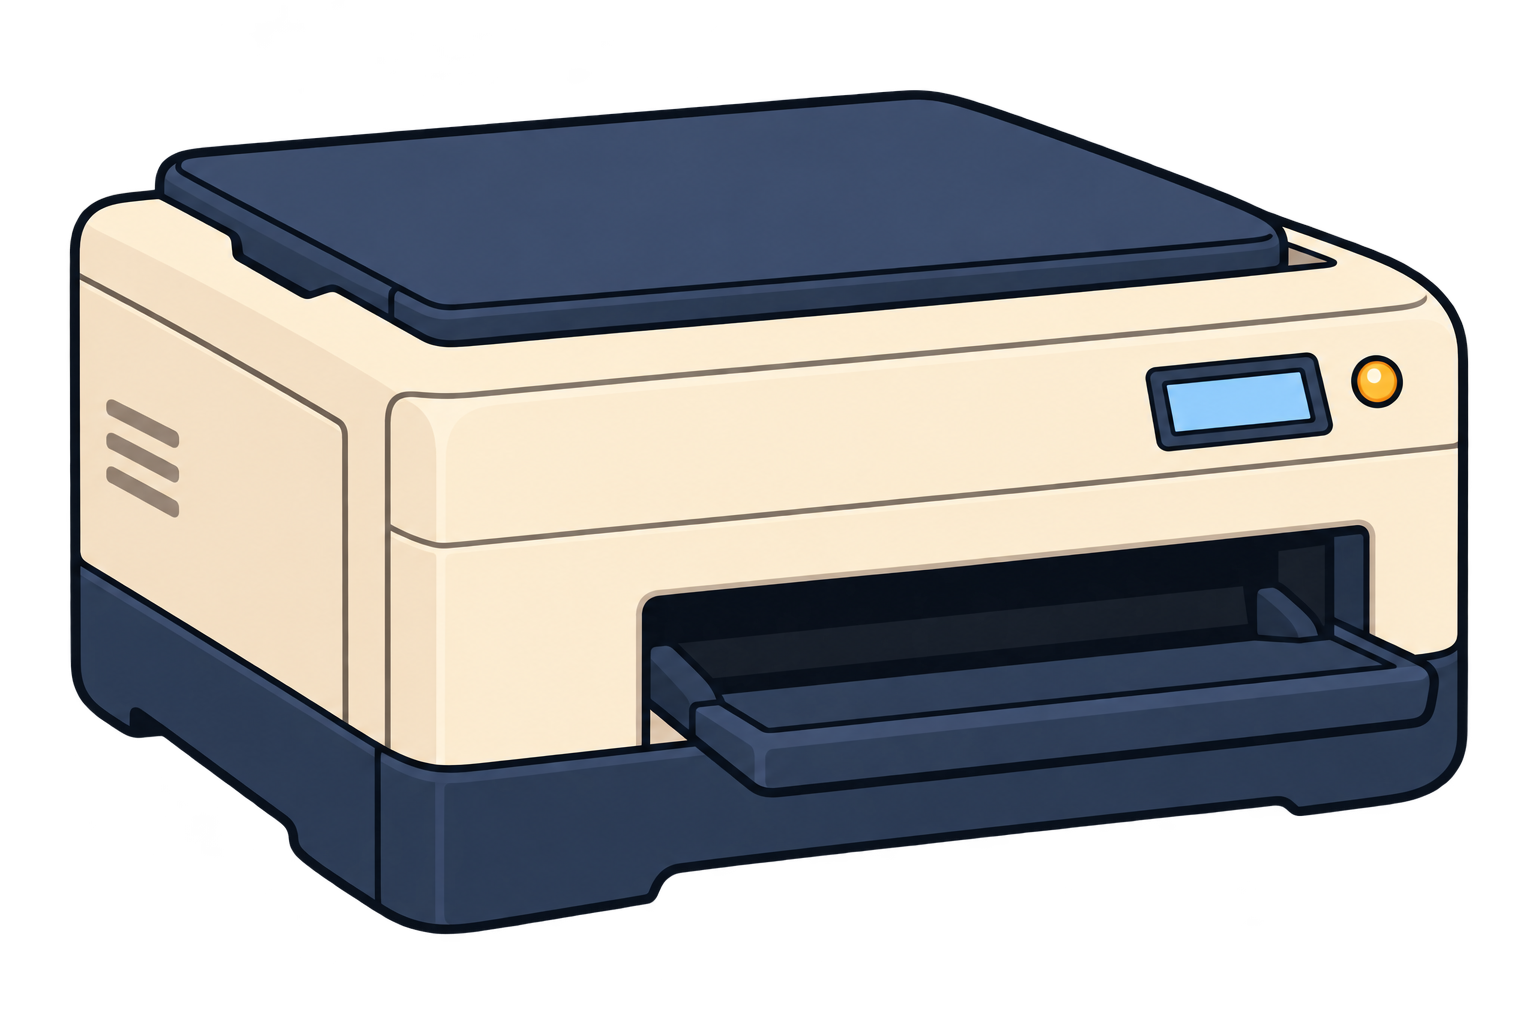
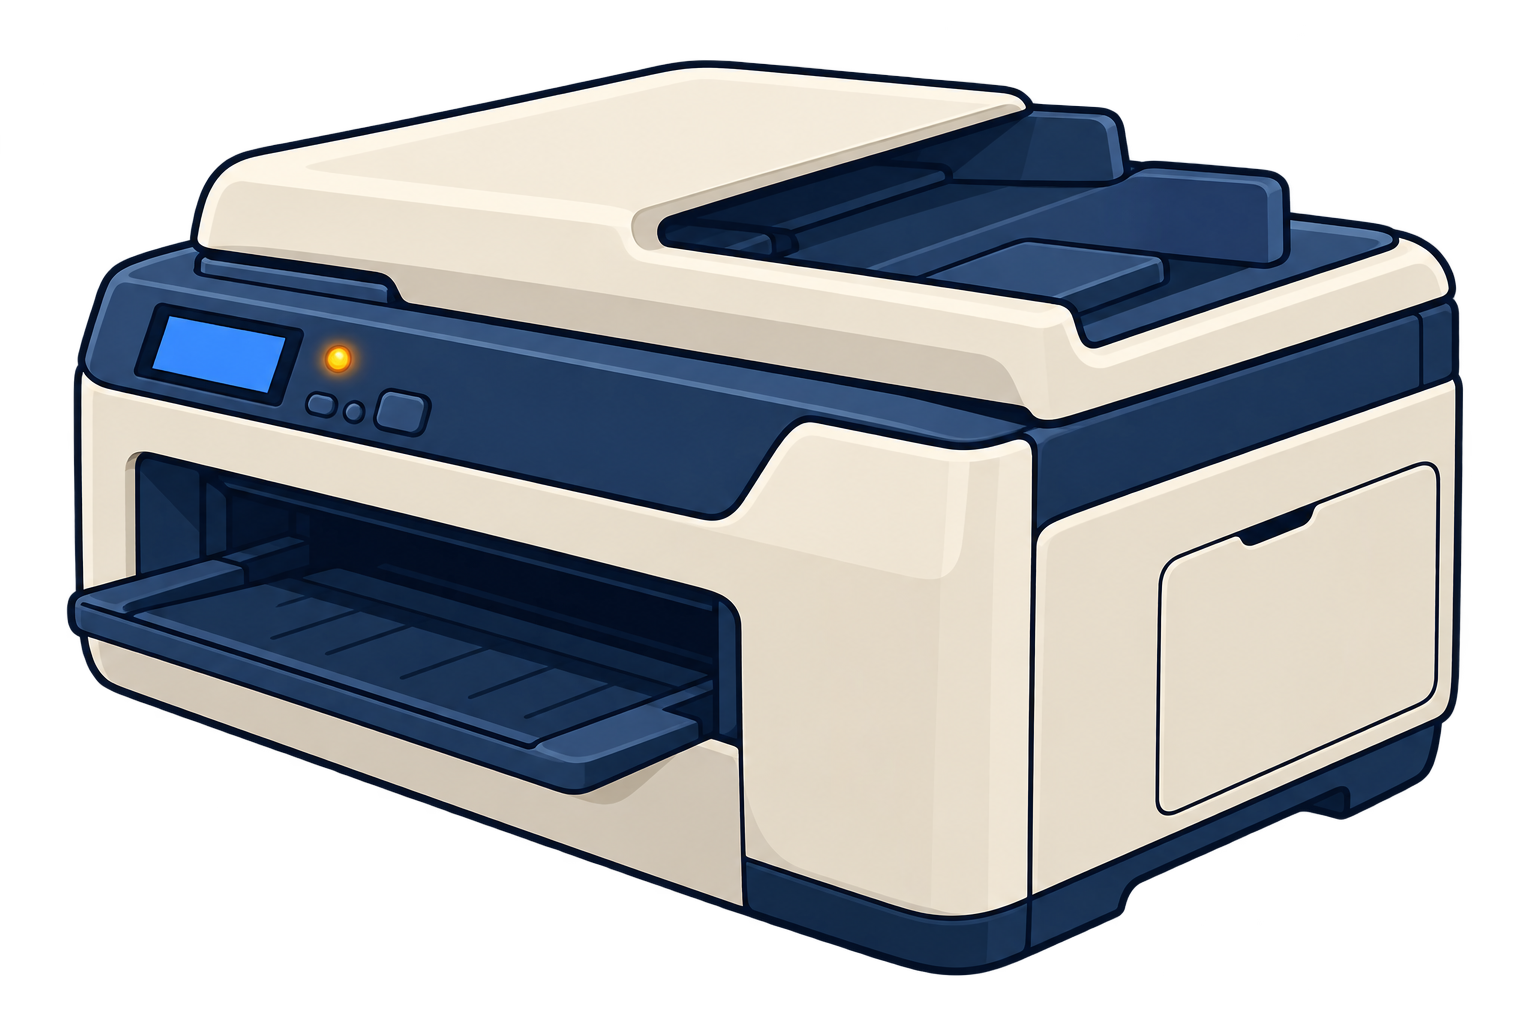
Printer game UI redesign

diff --git a/game/games/one_last_print.py b/game/games/one_last_print.py
@@ -47,6 +47,7 @@ class OneLastPrint(CalibratedMinigame):
 
     def __init__(self, screen: pygame.Surface, tracker: PullTracker | None = None) -> None:
         super().__init__(screen, tracker)
+<<<<<<< HEAD:game/games/one_last_print.py
         self.title_font = get_font(64)
         self.clock_font = get_font(46)
         self.printer_font = get_font(25)
@@ -54,11 +55,20 @@ class OneLastPrint(CalibratedMinigame):
         self.room_source = load_image("printer_room.png", alpha=False)
         self.printer_source = load_image("printer_machine.png")
         self.paper_source = load_image("printer_paper.png")
+=======
+        self.title_font = pygame.font.Font(None, 64)
+        self.clock_font = pygame.font.Font(None, 46)
+        self.result_font = pygame.font.Font(None, 58)
+        asset_dir = os.path.join(os.path.dirname(__file__), "assets")
+        self.room_source = pygame.image.load(os.path.join(asset_dir, "printer_room.png")).convert()
+        self.state_sources = [
+            pygame.image.load(os.path.join(asset_dir, f"printer_state_{index}.png")).convert_alpha()
+            for index in range(5)
+        ]
+>>>>>>> ec807f6 (Printer game UI redesign):game/games/tug_of_war.py
         self.art_size: tuple[int, int] | None = None
         self.room_art: pygame.Surface | None = None
-        self.printer_art: pygame.Surface | None = None
-        self.paper_art: pygame.Surface | None = None
-        self.paper_pile_art: pygame.Surface | None = None
+        self.state_art: list[pygame.Surface] = []
         self.start()
 
     @property
@@ -229,9 +239,7 @@ class OneLastPrint(CalibratedMinigame):
 
     def draw(self, screen: pygame.Surface) -> None:
         width, height = screen.get_size()
-        self._draw_office(screen, width, height)
-        self._draw_paper(screen, width, height)
-        self._draw_printer(screen, width, height)
+        self._draw_scene(screen, width, height)
         self._draw_hud(screen, width, height)
         draw_camera_preview(screen, self.tracker)
 
@@ -245,9 +253,28 @@ class OneLastPrint(CalibratedMinigame):
         if self.result is not None:
             self._draw_result(screen, width, height)
 
-    def _draw_office(self, screen: pygame.Surface, width: int, height: int) -> None:
+    def _draw_scene(self, screen: pygame.Surface, width: int, height: int) -> None:
         self._prepare_art(width, height)
         screen.blit(self.room_art, (0, 0))
+
+        if self.result is True:
+            screen.blit(self.state_art[4], (0, 0))
+        else:
+            progress = max(0.0, min(0.999, self.extraction / 100.0))
+            if progress < 0.24:
+                state = 0
+            elif progress < 0.52:
+                state = 1
+            elif progress < 0.78:
+                state = 2
+            else:
+                state = 3
+            screen.blit(self.state_art[state], (0, 0))
+
+        if self.pull_flash > 0 and self.result is None:
+            flash = pygame.Surface((width, height), pygame.SRCALPHA)
+            flash.fill((255, 244, 201, round(24 * min(1.0, self.pull_flash / 0.34))))
+            screen.blit(flash, (0, 0))
 
         clock = pygame.Rect(0, 0, 116, 48)
         clock.midtop = (width // 2, 18)
@@ -261,71 +288,7 @@ class OneLastPrint(CalibratedMinigame):
             return
         self.art_size = (width, height)
         self.room_art = pygame.transform.smoothscale(self.room_source, (width, height))
-        printer_h = int(height * 0.34)
-        printer_w = round(self.printer_source.get_width() * printer_h / self.printer_source.get_height())
-        printer = pygame.transform.smoothscale(self.printer_source, (printer_w, printer_h))
-        self.printer_art = pygame.transform.flip(printer, True, False)
-        paper_h = max(92, int(height * 0.18))
-        paper_w = int(width * 0.50)
-        self.paper_art = pygame.transform.smoothscale(self.paper_source, (paper_w, paper_h))
-        pile_h = max(68, int(height * 0.13))
-        pile_w = int(width * 0.24)
-        self.paper_pile_art = pygame.transform.smoothscale(self.paper_source, (pile_w, pile_h))
-
-    def _printer_rect(self, width: int, height: int) -> pygame.Rect:
-        rect = self.printer_art.get_rect()
-        rect.bottomright = (int(width * 0.94), int(height * 0.72))
-        return rect
-
-    def _draw_printer(self, screen: pygame.Surface, width: int, height: int) -> None:
-        shaking = self.pull_flash > 0 and self.result is None
-        shake = int(math.sin(self.pull_flash * 90) * 5) if shaking else 0
-        printer = self._printer_rect(width, height).move(shake, 0)
-        shadow = pygame.Surface((printer.width + 24, 32), pygame.SRCALPHA)
-        pygame.draw.ellipse(shadow, (31, 25, 21, 70), shadow.get_rect())
-        screen.blit(shadow, (printer.x - 4, printer.bottom - 15))
-        screen.blit(self.printer_art, printer)
-
-        display = pygame.Rect(
-            printer.x + int(printer.width * 0.08),
-            printer.y + int(printer.height * 0.36),
-            int(printer.width * 0.16),
-            max(24, int(printer.height * 0.105)),
-        )
-        pygame.draw.rect(screen, (12, 29, 42), display, border_radius=5)
-        display_color = GREEN if self.result is True else (153, 211, 242)
-        message = self.printer_font.render(self.printer_message, True, display_color)
-        if message.get_width() > display.width - 6:
-            message = pygame.transform.smoothscale(
-                message, (display.width - 6, max(1, round(message.get_height() * (display.width - 6) / message.get_width())))
-            )
-        screen.blit(message, message.get_rect(center=display.center))
-        light = GREEN if self.result is True else RED
-        if self.result is not True and int(self.elapsed * 5) % 2:
-            light = AMBER
-        light_pos = (printer.x + int(printer.width * 0.055), printer.y + int(printer.height * 0.37))
-        pygame.draw.circle(screen, (30, 36, 43), light_pos, 10)
-        pygame.draw.circle(screen, light, light_pos, 7)
-
-    def _draw_paper(self, screen: pygame.Surface, width: int, height: int) -> None:
-        printer = self._printer_rect(width, height)
-        slot_x = printer.x + int(printer.width * 0.34)
-        slot_y = printer.y + int(printer.height * 0.70)
-        progress = max(0.0, min(1.0, self.extraction / 100))
-        twitch = int(math.sin(self.pull_flash * 100) * 5) if self.pull_flash > 0 else 0
-        visible_width = max(82, int(self.paper_art.get_width() * (0.16 + progress * 0.84)))
-        paper = pygame.transform.smoothscale(self.paper_art, (visible_width, self.paper_art.get_height()))
-        paper = pygame.transform.rotate(paper, -2 + math.sin(self.pull_flash * 80) * 2 if self.pull_flash > 0 else -2)
-        paper_rect = paper.get_rect(midright=(slot_x + 10, slot_y + twitch))
-        screen.blit(paper, paper_rect)
-
-        pile_layers = int(progress * 8)
-        base_y = int(height * 0.68)
-        for layer in range(pile_layers):
-            sheet = pygame.transform.rotate(self.paper_pile_art, -7 + (layer % 4) * 5)
-            x = int(width * 0.06) + int(math.sin(layer * 1.7) * 24)
-            y = base_y + layer * 10
-            screen.blit(sheet, sheet.get_rect(midleft=(x, y)))
+        self.state_art = [pygame.transform.smoothscale(source, (width, height)) for source in self.state_sources]
 
     def _draw_hud(self, screen: pygame.Surface, width: int, height: int) -> None:
         title = self.title_font.render("ONE LAST PRINT", True, INK)
